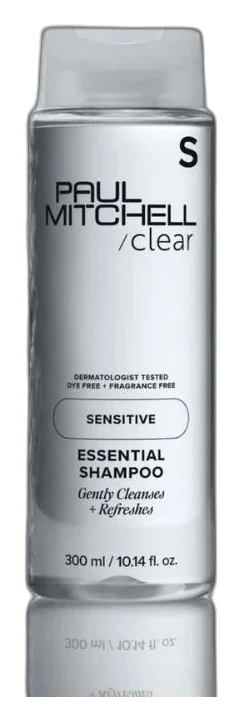
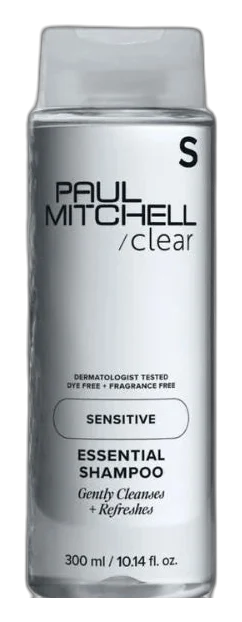
Paul Mitchell: три снимка вырезаны заново — заливкой их вырезать нельзя
Возврат из старого коммита помог не везде. На контактном листе видно: у «Clear
Jelly Mask» крышка была съедена по верхнему левому краю и вокруг банки стоял
серый налёт, а у «Clear Essential Shampoo» под бутылкой висела половина
отражения. «Clear Essential Conditioner» вообще оставался нетронутым кадром со
стеклянной вазой.

Причина одна: заливка от угла берёт один допуск, а фон у этих кадров — серый
градиент, и ваза с бутылкой стоят на зеркале. Поэтому здесь не заливка, а
rembg — тот же инструмент, что в tools/recut-rembg.py, с тремя добавками:

  · берём только самое большое пятно маски — так отсекается ваза, которая
    стоит рядом с бутылкой отдельным предметом (для банки безопасно: её
    крышка снята в самом кадре, но тянется к банке нитями желе, и это одно
    пятно);
  · отражение срезаем по линии касания — самый узкий ряд у дна, он измерен:
    бутылки идут шириной 192 px и сужаются до 185-187 px на y=901;
  · «расклеиваем» белый матовый край не по белому, а по тому фону, на котором
    кадр действительно снят, — он читается из верхней кромки самого снимка.
    Прежняя формула считала фон белым и затемняла край: именно от неё тёмный
    ободок вокруг крышки банки.

Геометрия прежняя: 8 % порога альфы, обрезка, поля 24 px, максимум 900 px,
webp q86.

  clear-jelly-mask          744x900 -> 734x900   крышка целая, налёта нет
  clear-essential-shampoo   243x721 -> 242x622   отражение убрано
  clear-essential-conditioner 900x856 -> 250x616 ваза и отражение убраны
[…]

Changed region(s): [[0.0868, 0.0305, 0.8967, 0.9775], [0.7521, 0.6415, 0.781, 0.7026], [0.8388, 0.0611, 0.8678, 0.0916]]

diff --git a/tools/recut-classic.py b/tools/recut-classic.py
@@ -52,17 +52,22 @@ OVERRIDE.update({k: 3 for k in [
     "paul-mitchell-super-smooth-shampoo-0",
 ]})
 
-# Three more Paul Mitchell photographs were damaged and have been restored from
-# the rembg-era blobs in git (6a9a649), but they are NOT in the dict above and
-# this dict cannot protect them: the sweep already picks 3 for all three, so the
-# tolerance is not what is wrong.
-#   clear-essential-shampoo-0, clear-jelly-mask-0 — shot on a grey gradient,
-#     corner srgb(205,210,214) / srgb(211,211,211); a 3% flood cannot clear it
-#     and the whole backdrop survives into the cutout.
+# DO NOT re-cut these four with this script — no tolerance saves them, and the
+# versions in public/shop/img are not this script's output:
+#   clear-essential-shampoo-0, clear-essential-conditioner-0 — compositions,
+#     a tall textured glass vase beside the bottle on a grey gradient
+#     (corner srgb(205,210,214) / srgb(206,208,220)) and both standing on a
+#     mirror. A corner flood has one tolerance and the backdrop has many, so
+#     the whole scene survives into the cutout.
+#   clear-jelly-mask-0 — grey gradient again, srgb(211,211,211).
 #   curl-twirl-around-cream-serum-0 — clear plastic cap on white; the flood
-#     walks through the transparent cap at any tolerance.
-# Re-running this script would break those three again. They need a different
-# mask (rembg, or a hand cut), not a different number.
+#     walks straight through the transparent cap at any tolerance.
+# Three of them are cut with rembg instead (isnet-general-use for the jar,
+# u2net for the two /clear bottles), keeping only the largest alpha blob to
+# drop the vase and cutting the mirror reflection at the contact line — the
+# narrowest row near the base, y=901 for both bottles. The serum keeps its
+# earlier rembg cut. The sweep already picks 3% for all four, so putting them
+# in OVERRIDE above would be a no-op that reads like a fix.
 
 merch = set((SP / "merch-ids.txt").read_text().split())
 
